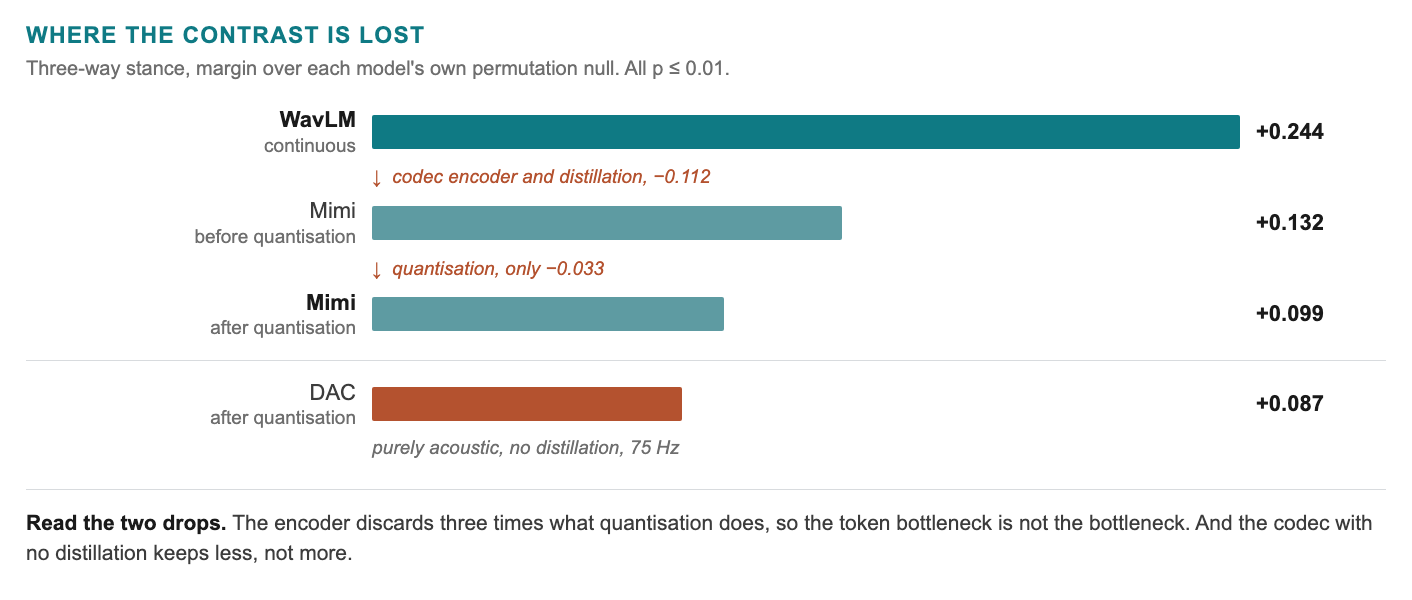
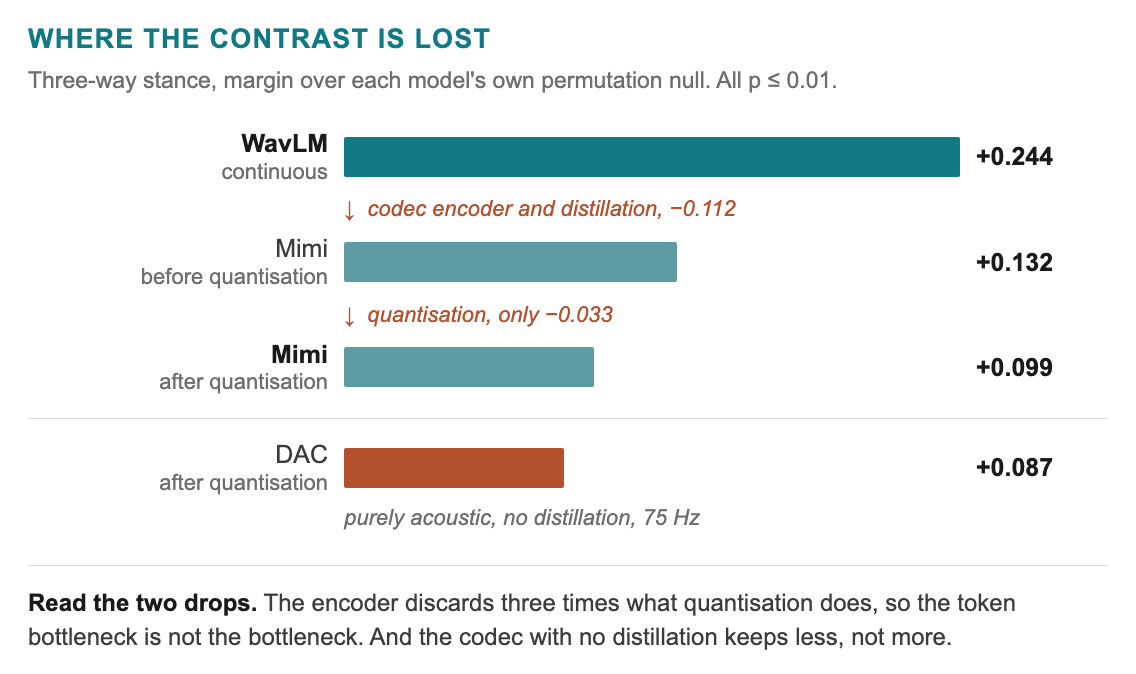
Resize intro-slide figures for side-by-side placement
Both were rendered at aspect 2.4, which is far too wide for a half-slide column.
They would have had to be scaled down to fit, shrinking the text.

Re-rendered at column proportions with proportionally larger type, left panel
1056x901 at aspect 1.17 and ladder 1136x674 at aspect 1.69. At 5.65 and 6.2 inches
wide they occupy 4.8 and 3.4 inches of height, so both sit below the title on one
16:9 slide with room to spare, and body type lands near 12pt.

Auto-cropped to the alpha bounding box so there is no dead space.

diff --git a/docs/figures/where_the_contrast_is_lost.html b/docs/figures/where_the_contrast_is_lost.html
@@ -1,47 +1,44 @@
 <style>
   html,body{margin:0;background:transparent;}
-  .w{width:1360px;padding:22px 26px;font-family:Arial,Helvetica,sans-serif;color:#3C3C3C;}
-  .hd{font-size:23px;font-weight:bold;color:#0F7A84;letter-spacing:1.2px;margin-bottom:8px;}
-  .sub{font-size:20px;color:#6E6E6E;margin-bottom:26px;}
-  .row{display:grid;grid-template-columns:330px 1fr 130px;align-items:center;column-gap:16px;}
-  .lab{font-size:22px;text-align:right;line-height:1.25;}
+  .w{width:1080px;padding:24px 28px;font-family:Arial,Helvetica,sans-serif;color:#3C3C3C;}
+  .hd{font-size:27px;font-weight:bold;color:#0F7A84;letter-spacing:1.2px;margin-bottom:10px;}
+  .sub{font-size:23px;color:#6E6E6E;line-height:1.35;margin-bottom:32px;}
+  .row{display:grid;grid-template-columns:300px 1fr 132px;align-items:center;column-gap:16px;}
+  .lab{font-size:25px;text-align:right;line-height:1.22;}
   .lab.k{font-weight:bold;color:#1A1A1A;}
-  .track{height:34px;position:relative;}
-  .bar{height:34px;border-radius:2px;}
-  .val{font-size:22px;font-weight:bold;color:#1A1A1A;}
-  .drop{grid-column:1 / -1;font-size:19px;font-style:italic;color:#B4522F;padding:9px 0 9px 346px;}
-  .rule{border-top:1px solid #D8DBDE;margin:20px 0 18px;}
-  .cap{grid-column:1 / -1;font-size:19px;font-style:italic;color:#6E6E6E;padding:7px 0 0 346px;}
-  .read{margin-top:30px;font-size:21px;line-height:1.45;border-top:1px solid #D8DBDE;padding-top:18px;}
+  .sm{color:#6E6E6E;font-size:22px;font-weight:normal;}
+  .track{height:40px;}
+  .bar{height:40px;border-radius:2px;}
+  .val{font-size:25px;font-weight:bold;color:#1A1A1A;}
+  .drop{grid-column:1 / -1;font-size:22px;font-style:italic;color:#B4522F;padding:11px 0 11px 316px;}
+  .cap{grid-column:1 / -1;font-size:22px;font-style:italic;color:#6E6E6E;padding:9px 0 0 316px;}
+  .rule{border-top:1px solid #D8DBDE;margin:22px 0 20px;}
+  .read{margin-top:34px;font-size:24px;line-height:1.42;border-top:1px solid #D8DBDE;padding-top:20px;}
   .read b{color:#1A1A1A;}
 </style>
 <div class="w">
   <div class="hd">WHERE THE CONTRAST IS LOST</div>
   <div class="sub">Three-way stance, margin over each model's own permutation null. All p &le; 0.01.</div>
-
   <div class="row">
-    <div class="lab k">WavLM<br><span style="font-weight:normal;color:#6E6E6E;font-size:19px">continuous</span></div>
+    <div class="lab k">WavLM<br><span class="sm">continuous</span></div>
     <div class="track"><div class="bar" style="width:100%;background:#0F7A84"></div></div>
     <div class="val">+0.244</div>
     <div class="drop">&darr;&nbsp; codec encoder and distillation, &minus;0.112</div>
-    <div class="lab">Mimi<br><span style="color:#6E6E6E;font-size:19px">before quantisation</span></div>
+    <div class="lab">Mimi<br><span class="sm">before quantisation</span></div>
     <div class="track"><div class="bar" style="width:54.1%;background:#5E9BA2"></div></div>
     <div class="val">+0.132</div>
     <div class="drop">&darr;&nbsp; quantisation, only &minus;0.033</div>
-    <div class="lab k">Mimi<br><span style="font-weight:normal;color:#6E6E6E;font-size:19px">after quantisation</span></div>
+    <div class="lab k">Mimi<br><span class="sm">after quantisation</span></div>
     <div class="track"><div class="bar" style="width:40.6%;background:#5E9BA2"></div></div>
     <div class="val">+0.099</div>
   </div>
-
   <div class="rule"></div>
-
   <div class="row">
-    <div class="lab">DAC<br><span style="color:#6E6E6E;font-size:19px">after quantisation</span></div>
+    <div class="lab">DAC<br><span class="sm">after quantisation</span></div>
     <div class="track"><div class="bar" style="width:35.7%;background:#B4522F"></div></div>
     <div class="val">+0.087</div>
     <div class="cap">purely acoustic, no distillation, 75 Hz</div>
   </div>
-
   <div class="read"><b>Read the two drops.</b> The encoder discards three times what quantisation
   does, so the token bottleneck is not the bottleneck. And the codec with no distillation keeps
   less, not more.</div>

diff --git a/docs/figures/intro_slide_left_panel.html b/docs/figures/intro_slide_left_panel.html
@@ -1,12 +1,12 @@
 <style>
   html,body{margin:0;background:transparent;}
-  .w{width:1520px;padding:20px 24px;font-family:Arial,Helvetica,sans-serif;color:#3C3C3C;}
-  p{margin:0 0 26px;font-size:31px;line-height:1.42;}
+  .w{width:1000px;padding:24px 28px;font-family:Arial,Helvetica,sans-serif;color:#3C3C3C;}
+  p{margin:0 0 30px;font-size:34px;line-height:1.4;}
   b{color:#1A1A1A;}
   i{color:#1A1A1A;font-style:italic;}
-  .h{font-size:31px;font-weight:bold;color:#1A1A1A;margin:0 0 16px;}
+  .h{font-size:34px;font-weight:bold;color:#1A1A1A;margin:0 0 20px;}
   ul{margin:0;padding:0;list-style:none;}
-  li{position:relative;padding-left:34px;margin-bottom:22px;font-size:29px;line-height:1.4;}
+  li{position:relative;padding-left:36px;margin-bottom:26px;font-size:32px;line-height:1.38;}
   li:before{content:"•";position:absolute;left:6px;top:-1px;color:#6E6E6E;}
 </style>
 <div class="w">
